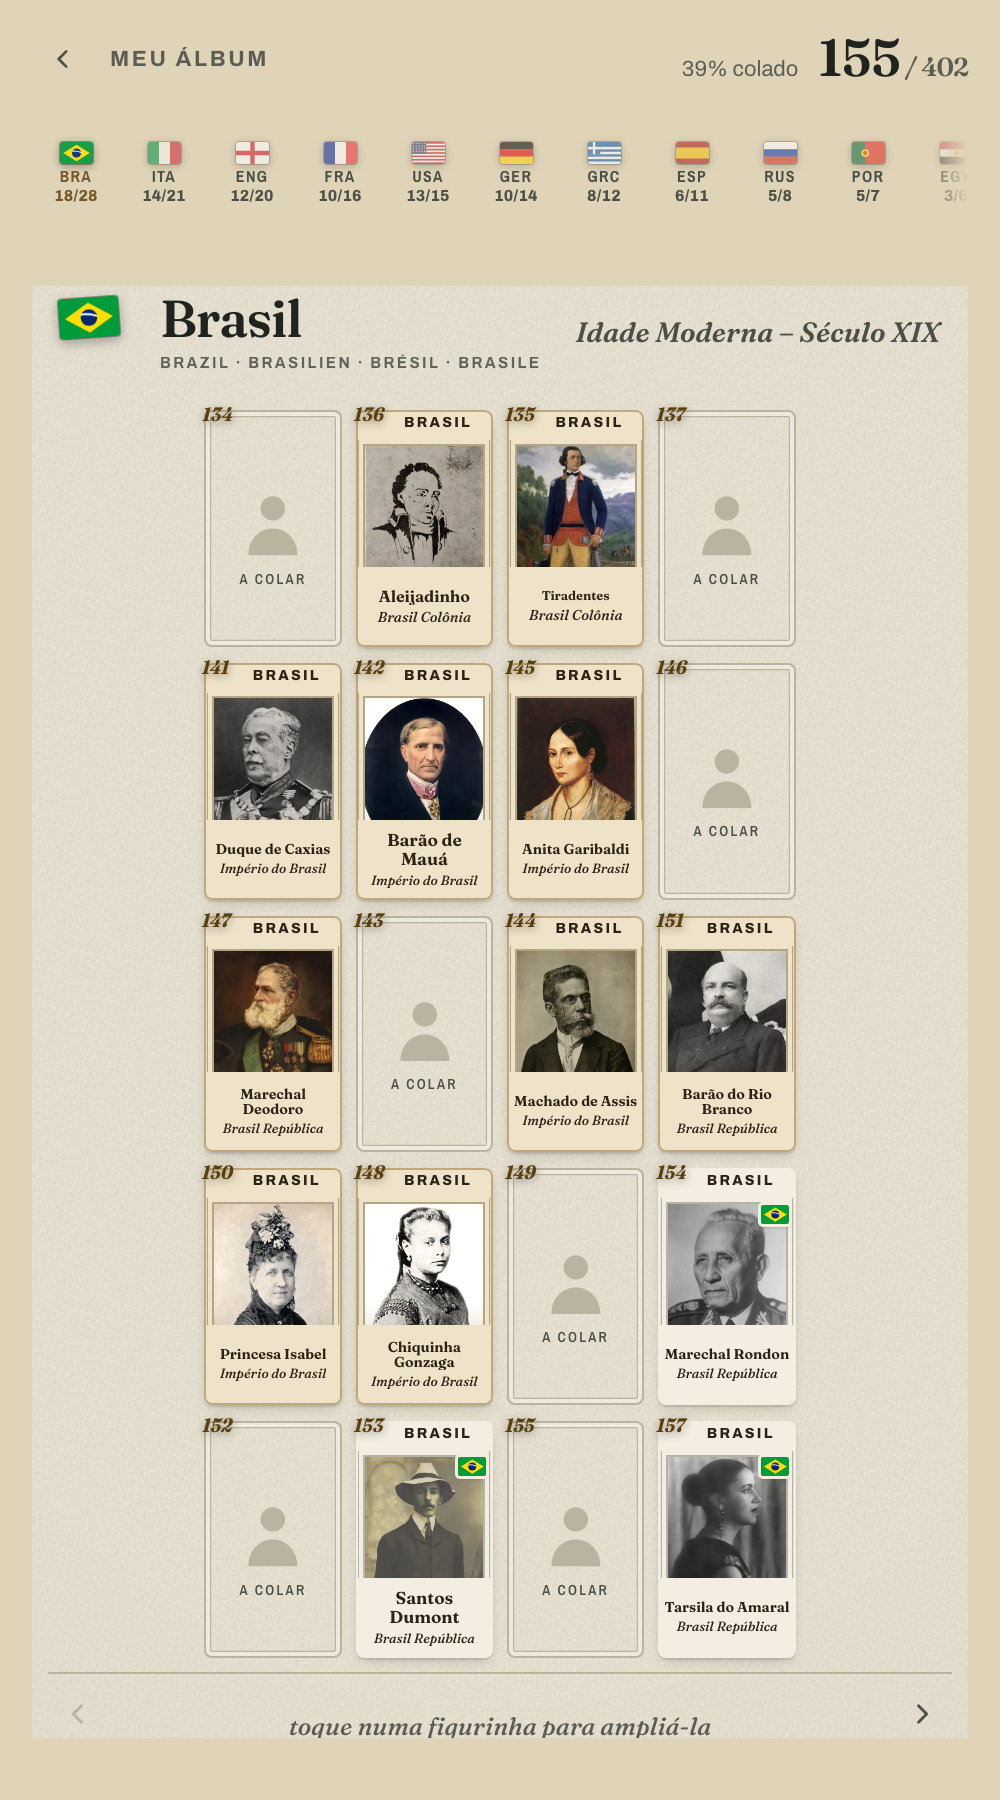
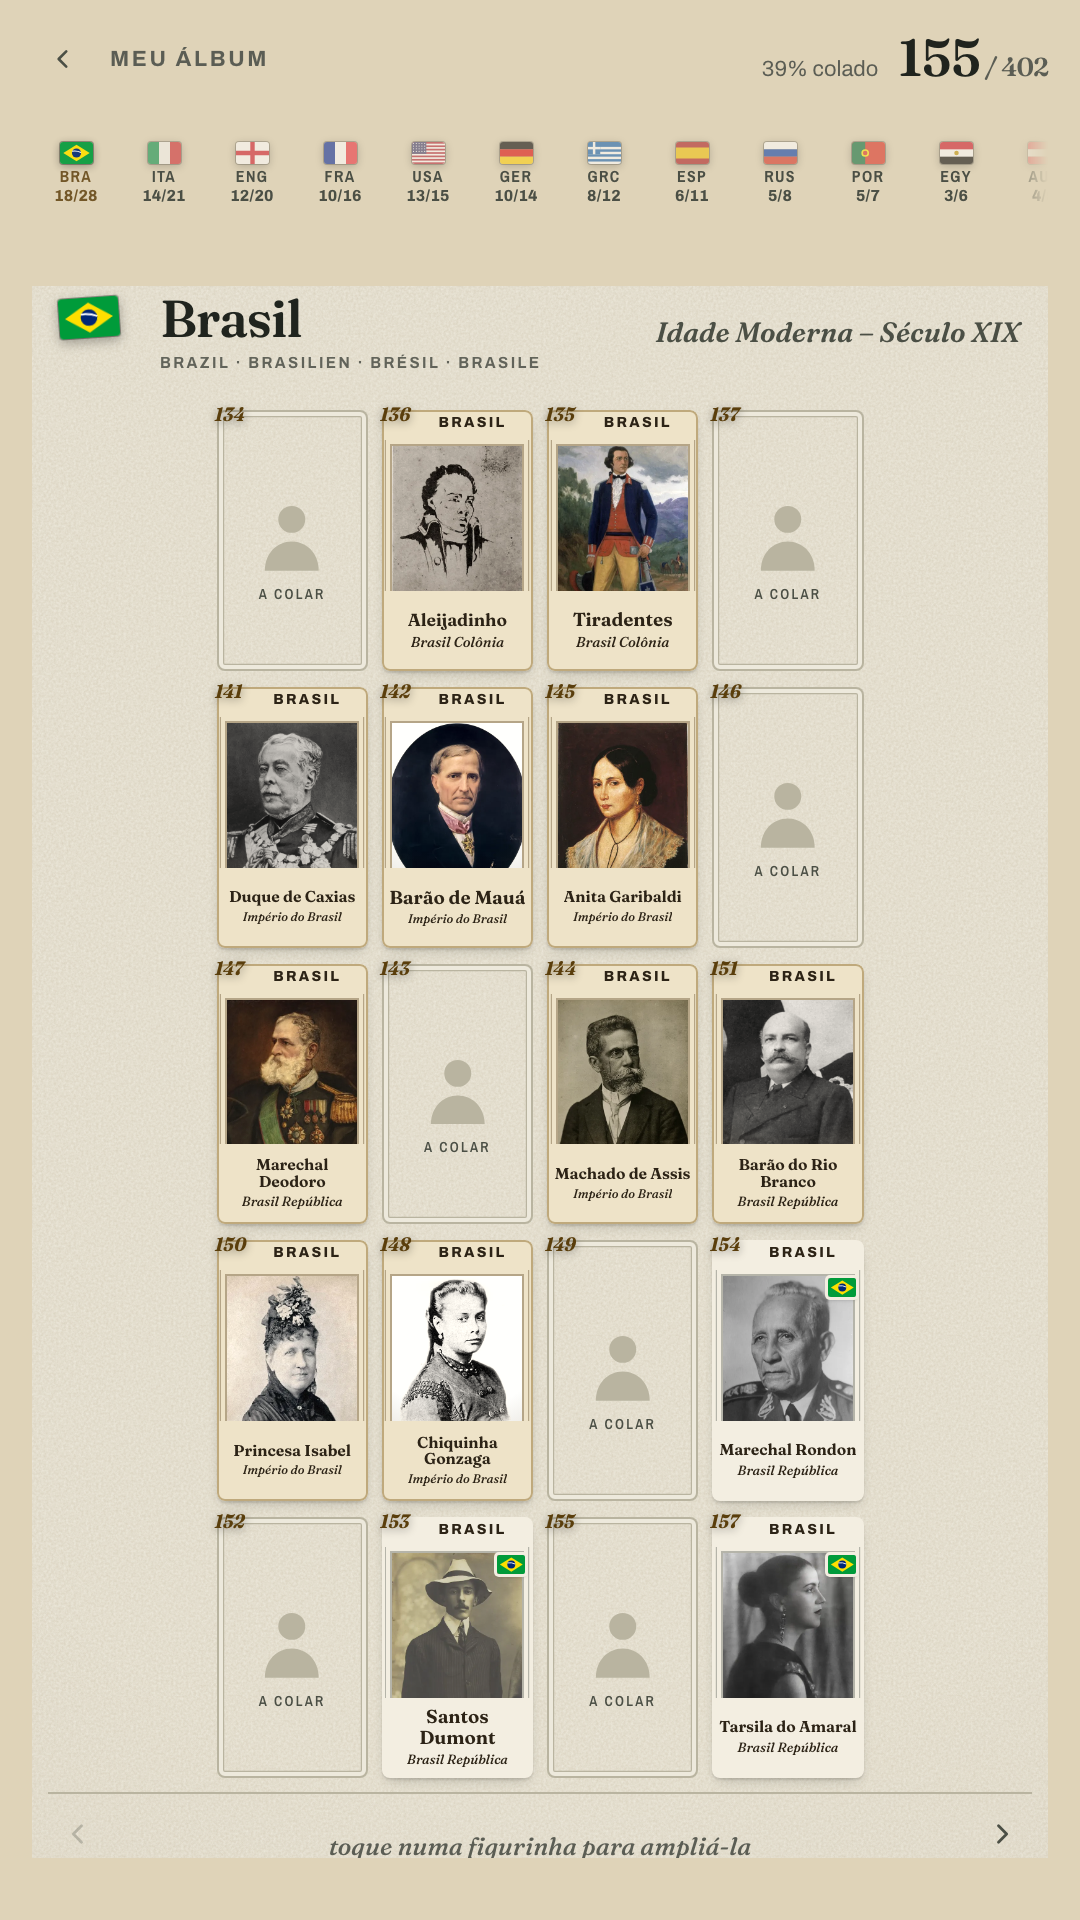
Android: version 1.0.2 (code 3) for the closed test

diff --git a/tools/history/store_assets.py b/tools/history/store_assets.py
@@ -76,4 +76,4 @@ if __name__ == "__main__":
     want = sys.argv[1:] or list(STATES) + ["feature"]
     for n in want:
         if n == "feature": feature()
-        else: shot(n, STATES[n], h=900)
+        else: shot(n, STATES[n], w=540, h=960)
